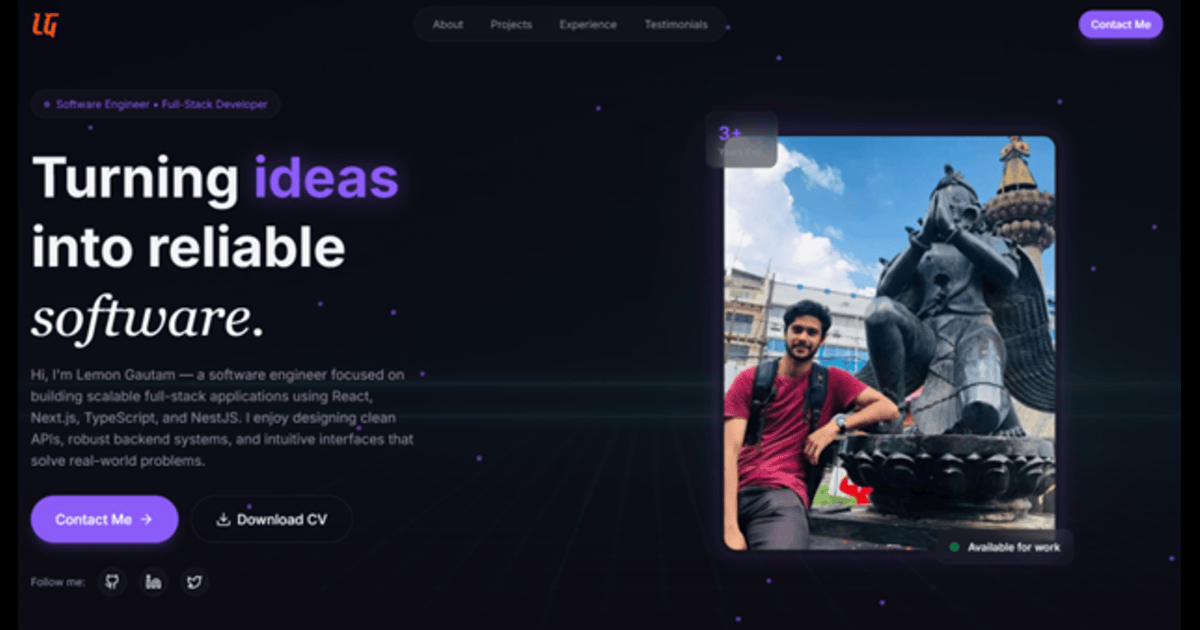
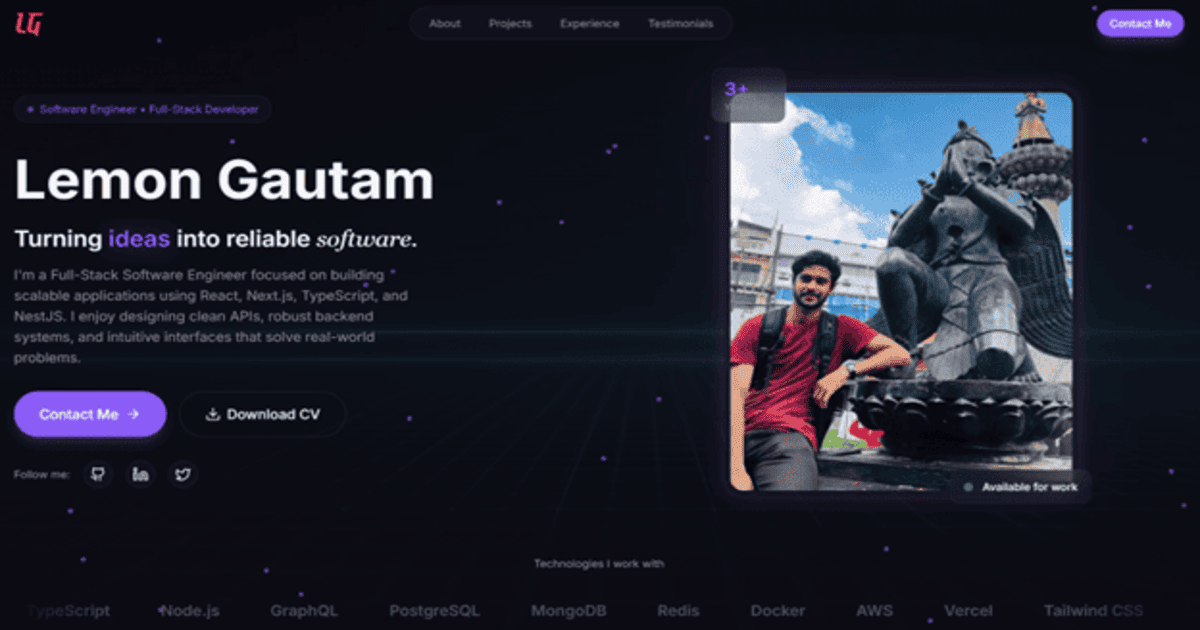
[Hero image wala]

diff --git a/src/sections/Hero.jsx b/src/sections/Hero.jsx
@@ -88,7 +88,7 @@ export const Hero = () => {
             </div>
 
             {/* Headline */}
-            <div className="space-y-4">
+            {/* <div className="space-y-4">
               <h1 className="text-5xl md:text-6xl lg:text-7xl font-bold leading-tight animate-fade-in animation-delay-100">
                 Turning <span className="text-primary glow-text">ideas</span>
                 <br />
@@ -100,6 +100,28 @@ export const Hero = () => {
               </h1>
               <p className="text-lg text-muted-foreground max-w-lg animate-fade-in animation-delay-200">
                 Hi, I'm Lemon Gautam — a software engineer focused on building scalable full-stack applications using React, Next.js, TypeScript, and NestJS. I enjoy designing clean APIs, robust backend systems, and intuitive interfaces that solve real-world problems.
+              </p>
+            </div> */}
+
+            {/* Headline */}
+            <div className="space-y-4">
+              <h1 className="text-5xl md:text-6xl lg:text-7xl font-bold leading-tight animate-fade-in animation-delay-100">
+                Lemon Gautam
+              </h1>
+
+              <p className="text-2xl md:text-3xl font-semibold text-foreground animate-fade-in animation-delay-150">
+                Turning <span className="text-primary glow-text">ideas </span>
+                into reliable{" "}
+                <span className="font-serif italic font-normal text-white">
+                  software.
+                </span>
+              </p>
+
+              <p className="text-lg text-muted-foreground max-w-lg animate-fade-in animation-delay-200">
+                I'm a Full-Stack Software Engineer focused on building scalable
+                applications using React, Next.js, TypeScript, and NestJS. I enjoy
+                designing clean APIs, robust backend systems, and intuitive interfaces
+                that solve real-world problems.
               </p>
             </div>
 

diff --git a/index.html b/index.html
@@ -8,7 +8,7 @@
     <title>Lemon Gautam | Full-Stack Software Engineer & Backend Developer</title>
     <meta
       name="description"
-      content="Lemon Gautam is a Full-Stack Software Engineer specializing in React, Next.js, TypeScript, NestJS, Go, Analytics, PostgreSQL, backend development, cloud technologies, and modern web applications."
+      content="Lemon Gautam is a Full-Stack Software Engineer specializing in backend development, cloud technologies, and modern web applications."
     />
     <meta name="author" content="Lemon Gautam" />
 
